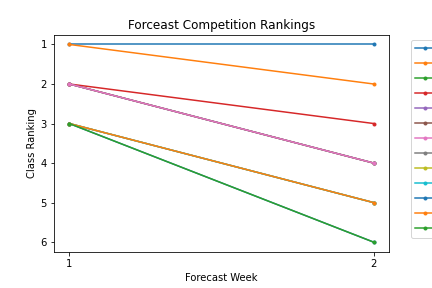
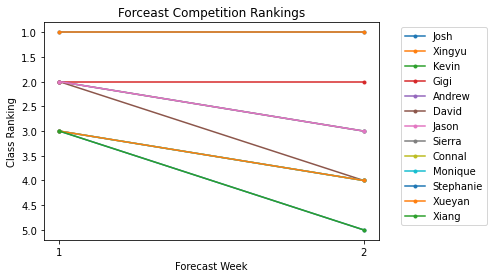
Week 2 forecast

diff --git a/evaluation_scripts/bonus/bonus_wk2.py b/evaluation_scripts/bonus/bonus_wk2.py
@@ -13,7 +13,7 @@ print('Everyone:', all_names)
 print()
 
 #make a list of all the people who got points this week
-points_list = ['Josh', 'Xingyu', 'Sierra', 'Xueyan', 'Andrew', 'Gigi', 'Jason', 'Monique']
+points_list = ['Josh', 'Xingyu', 'Sierra', 'Xueyan', 'Andrew', 'Gigi', 'Jason']
 print('People getting points already:', points_list)
 print()
 
@@ -21,7 +21,7 @@ print()
 # Example with a list comprehension
 nopoints_list = [name for name in all_names if name not in points_list]
 
-#Example doing the same thign with a loop
+#Example doing the same thing with a loop
 #nopoints_list = []
 #for name in all_names:
 #    if name not in points_list:

diff --git a/Scoreboard.md b/Scoreboard.md
@@ -3,18 +3,19 @@
 
 |      | Name    | Points    |
 |:-----|---------|---------  |
-|  1   |  Josh       |      2     |
-|  2   |  Xingyu       |     2      |
-|  3   |  Andrew       |      1     |
-|  4   |  David       |       1    |
-|  5   |    Gigi     |     1      |
-|  6   |   Jason      |     1      |
-|  7   |    Kevin     |     1      |
-|  8   |         |           |
-|  9   |         |           |
-|  10  |         |           |
-|  11  |         |           |
+|  1   |  Josh       |      5     |
+|  2   |  Xingyu       |     5      |
+|  3   |  Gigi      |      3     |
+|  4   |  Kevin      |       2   |
+|  5   |  Andrew     |     2      |
+|  6   |  Jason      |    2      |
+|  7   |  Sierra     |     1      |
+|  8   |  Connal     |       1    |
+|  9   |  Monique     |     1      |
+|  10  |  David      |      1     |
+|  11  |  Xueyan      |     1      |
 |  12  |         |           |
+|  13  |         |           |
 
 
 # Detailed points summary:
@@ -29,18 +30,18 @@
   - Reason: First to submit their forecats
 
 ### Week 2: 9/5-9/11
-- **Observed flow** = xx cfs
+- **Observed flow** = 112 cfs
 - **1 Week Forecast**:
-  - First place: XX cfs, Name(s)
-  - Second place: XX cfs, Name(s)
-  - Third place: XX cfs, Name(s)
+  - First place: 120 cfs, Josh & Xingyu
+  - Second place: 100 cfs, Andrew
+  - Third place: 130 cfs, Sierra & Xueyan
 - **2 Week Forecasts**:
-  - First place: XX cfs, Name(s)
-  - Second place: XX cfs, Name(s)
-  - Third place: XX cfs, Name(s)
+  - First place: 120 cfs, Gigi
+  - Second place: 125 cfs, Josh & Jason 
+  - Third place: 100 cfs, xingyu
 - **Bonus points**
-  - Names
-  - Reason
+  - Names: Connal, Monique, Kevin
+  - Reason: First three first names not getting points this week alphabetically
 
 ### Week 3: 9/12-9/18
 - **Observed flow** = xx cfs
